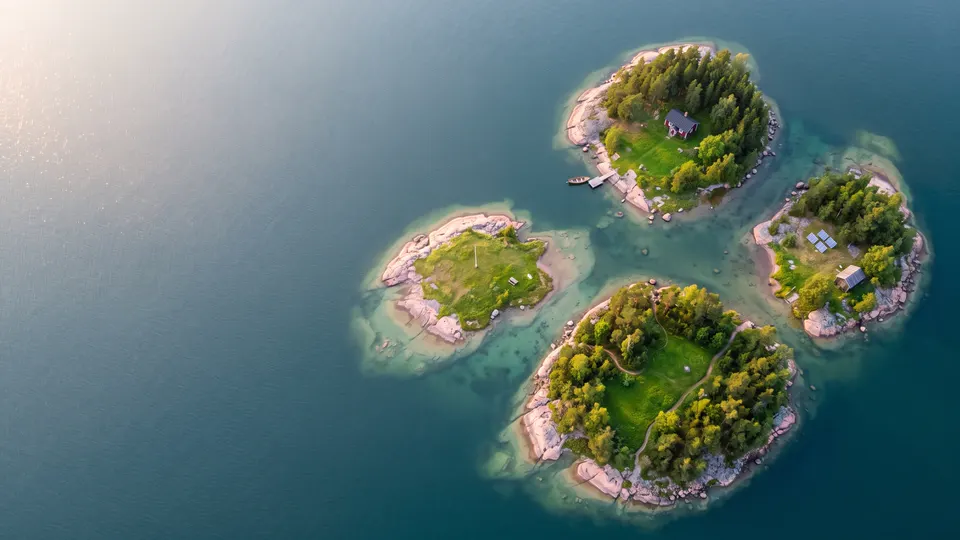
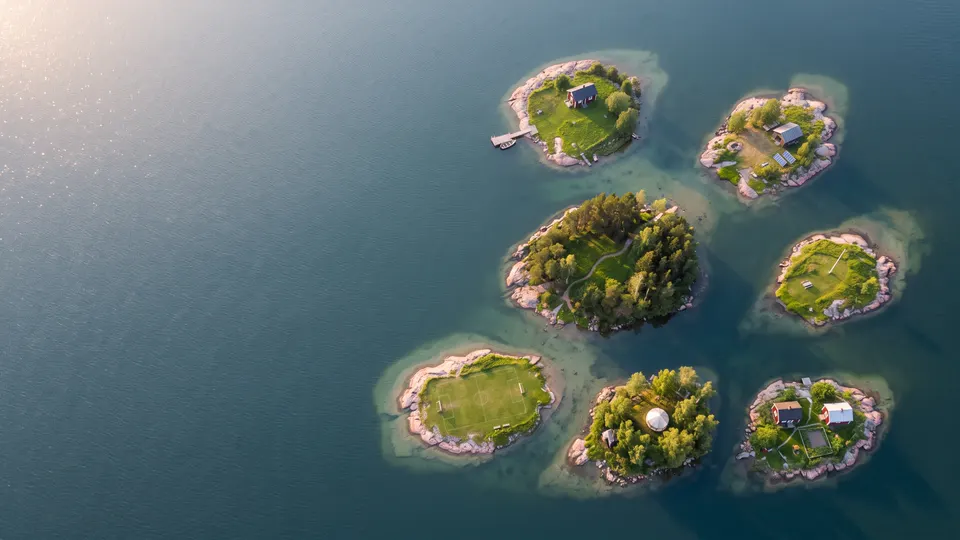
Add the missing projects: Football Scouting Model, NHS innovation submission and Flatmate, as islands (new seven-island Projects aerial), as cards on the original site and in the recruiter brief; the rail tracks the whole climb as Islands
Claude-Session: https://claude.ai/code/session_01Ua7Td3nopsGbS9dzXcqYJP

diff --git a/index.html b/index.html
@@ -178,6 +178,9 @@
             <div data-tags="ai eng"><dt>Claude ↔ Codex agent bridge</dt><dd>Two AI coding agents that review each other's work before merge.</dd></div>
             <div data-tags="finance fintech ai"><dt>"Hybrid by Design" whitepaper</dt><dd>20 pages on AI and wealth management, 49 primary sources, sent by Space01 to its clients.</dd></div>
             <div data-tags="eng"><dt>TutorTime</dt><dd>Scheduling, resources and Q&amp;A for student tutors. React, Supabase.</dd></div>
+            <div data-tags="quant eng"><dt>Football scouting model</dt><dd class="brief__when">2026 - present</dd><dd>Ranks players for recruitment from match data: SQL database, per-90 ratings, positional and budget shortlists.</dd></div>
+            <div data-tags=""><dt>NHS innovation submission</dt><dd>Adaptive microneedle patch concept, submitted to Health Innovation Kent Surrey Sussex.</dd></div>
+            <div data-tags="ai eng"><dt>Flatmate</dt><dd>First full-stack build: Claude API receipt scanning, Supabase, AWS Amplify.</dd></div>
           </dl>
         </section>
         <section class="brief__col">
@@ -234,8 +237,8 @@
 
     <!-- The island map: pick a group (Experience, Projects, Grades), then an island to read it. -->
     <!-- The climb: the night flight hands over to the archipelago from just above the water, then the camera climbs until the whole map is in view. -->
-    <div class="climb">
-    <section class="islands" id="islands" data-section="islands" aria-label="Island map of my CV">
+    <div class="climb" data-section="islands">
+    <section class="islands" id="islands" aria-label="Island map of my CV">
       <div class="islands__climb">
       <div class="islands__frame">
         <img class="islands__img islands__img--overview" alt="An aerial view of an archipelago: three groups of islands" decoding="async">
@@ -435,9 +438,57 @@
                         </div>
                     </div>
                 </div>
+                <div class="project-card project-card--solo">
+                    <div class="project-content">
+                        <p class="project-eyebrow">2026 &mdash; Present</p>
+                        <h3 class="project-name">Football Scouting Model &mdash; Data-Driven Player Recruitment</h3>
+                        <p class="project-desc">
+                            A data model that scores and ranks football players for recruitment from match and performance data, on a SQL database I designed, producing ranked shortlists against positional and budget constraints. It came from watching Brentford&rsquo;s data-led recruitment turn a small-budget club into an established Premier League side. Ratings are per 90 minutes with a minimum-minutes threshold so low-minute players don&rsquo;t distort the rankings; now I&rsquo;m working through which metrics matter for each position, how to weight them, and how to compare players across leagues.
+                        </p>
+                        <div class="project-tags">
+                            <span>SQL</span>
+                            <span>Data modelling</span>
+                            <span>Sports analytics</span>
+                        </div>
+                    </div>
+                </div>
+                <div class="project-card project-card--solo">
+                    <div class="project-content">
+                        <p class="project-eyebrow">2026 &middot; Independent</p>
+                        <h3 class="project-name">NHS Innovation Submission &mdash; Adaptive Microneedle Patch</h3>
+                        <p class="project-desc">
+                            A medical device concept: an adaptive microneedle patch for drug delivery with built-in safety monitoring, prompted by people I know giving up on immunotherapy. With no clinical background, I spent a few weeks reading primary literature in optics, microfluidics and drug delivery, then submitted it to Health Innovation Kent Surrey Sussex, the NHS innovation network for the region.
+                        </p>
+                        <div class="project-tags">
+                            <span>Research</span>
+                            <span>Healthcare</span>
+                        </div>
+                    </div>
+                </div>
+                <div class="project-card">
+                    <div class="project-content">
+                        <p class="project-eyebrow">Earlier &middot; First full-stack build</p>
+                        <h3 class="project-name">Flatmate &mdash; Shared Household Expense App</h3>
+                        <p class="project-desc">
+                            Full-stack prototype to track shared household costs and split bills automatically between flatmates. Integrates AI-powered receipt scanning via the Claude API, real-time shopping list, user authentication, and a split-payment ledger using Supabase and AWS Amplify.
+                        </p>
+                        <div class="project-tags">
+                            <span>Claude API</span>
+                            <span>Supabase</span>
+                            <span>Amplify</span>
+                            <span>OCR</span>
+                        </div>
+                        <div class="project-links">
+                            <a href="https://github.com/lewisowilson/flatmate-app" target="_blank" rel="noopener noreferrer">GitHub &rarr;</a>
+                        </div>
+                    </div>
+                    <div class="project-screenshot project-screenshot--mobile">
+                        <img src="/images/flatmate-dashboard.png" alt="Flatmate app showing shared bills, rent status and chores streak" loading="lazy">
+                    </div>
+                </div>
                 <p class="side-builds">
-                    <strong>Earlier &amp; side builds</strong>
-                    <a href="https://github.com/lewisowilson/flatmate-app" target="_blank" rel="noopener noreferrer">Flatmate</a> &middot; PubGolf &middot; Scoutr &middot; DeNic
+                    <strong>Other side builds</strong>
+                    PubGolf &middot; Scoutr &middot; DeNic
                 </p>
             </div>
         </section>

diff --git a/src/flight/islands-data.js b/src/flight/islands-data.js
@@ -51,8 +51,8 @@ export const GROUPS = [
           "An accessible table-booking system built in-house at Construx for the UK pubs we worked with. Customers book through a form embedded in the venue's own site; the system enforces capacity limits and checks every new booking against existing ones to prevent double-booking.",
           'Staff manage bookings from a dashboard with a floor map, a menu editor and email notifications. Next.js, React, Tailwind, AWS Amplify, DynamoDB.',
         ],
-        x: 69,
-        y: 25,
+        x: 60,
+        y: 20,
       },
       {
         id: 'agents',
@@ -64,11 +64,48 @@ export const GROUPS = [
           "A workflow where Claude Code and OpenAI's Codex pass context to each other: one writes the change, the other reviews and challenges it, and the notes go back before anything is merged.",
           'The two agents cross-checking each other gave more consistent output and cut the time we spent debugging.',
         ],
-        x: 87,
-        y: 48,
+        x: 80,
+        y: 26,
       },
-      { ...fromStop('tutortime'), short: 'TutorTime', x: 68, y: 72 },
-      { ...fromStop('whitepaper'), short: 'Whitepaper', x: 48, y: 53 },
+      {
+        id: 'scouting',
+        short: 'Scouting model',
+        title: 'Football Scouting Model',
+        org: 'Data-driven player recruitment',
+        when: '2026 - present',
+        body: [
+          "A data model that scores and ranks football players for recruitment from match and performance data, on a SQL database I designed. It produces ranked shortlists against positional and budget constraints.",
+          "It came from watching Brentford's data-led recruitment turn a small-budget club into an established Premier League side. Ratings are per 90 minutes with a minimum-minutes threshold, so low-minute players don't distort the rankings. Now I'm working through what a club analytics team asks: which metrics matter for each position, how to weight them, and how to compare players across leagues.",
+        ],
+        x: 50,
+        y: 73,
+      },
+      { ...fromStop('tutortime'), short: 'TutorTime', x: 62, y: 48 },
+      {
+        id: 'nhs',
+        short: 'NHS concept',
+        title: 'NHS Innovation Submission',
+        org: 'Independent · adaptive microneedle patch',
+        when: '2026',
+        body: [
+          'A medical device concept: an adaptive microneedle patch for drug delivery with built-in safety monitoring, prompted by people I know giving up on immunotherapy.',
+          'With no clinical background, I spent a few weeks reading primary literature in optics, microfluidics and drug delivery, then submitted it to Health Innovation Kent Surrey Sussex, the NHS innovation network for the region. Nobody asked me to.',
+        ],
+        x: 67,
+        y: 77,
+      },
+      {
+        id: 'flatmate',
+        short: 'Flatmate',
+        title: 'Flatmate: shared household expense app',
+        org: 'My first full-stack build',
+        when: 'Earlier build',
+        body: ['A full-stack prototype for tracking shared household costs and splitting bills between flatmates: AI receipt scanning through the Claude API, a real-time shopping list, user accounts and a split-payment ledger, on Supabase and AWS Amplify.'],
+        links: [{ label: 'GitHub', href: 'https://github.com/lewisowilson/flatmate-app' }],
+        x: 84,
+        y: 79,
+      },
+      { ...fromStop('whitepaper'), short: 'Whitepaper', x: 86, y: 52 },
     ],
   },
   {
